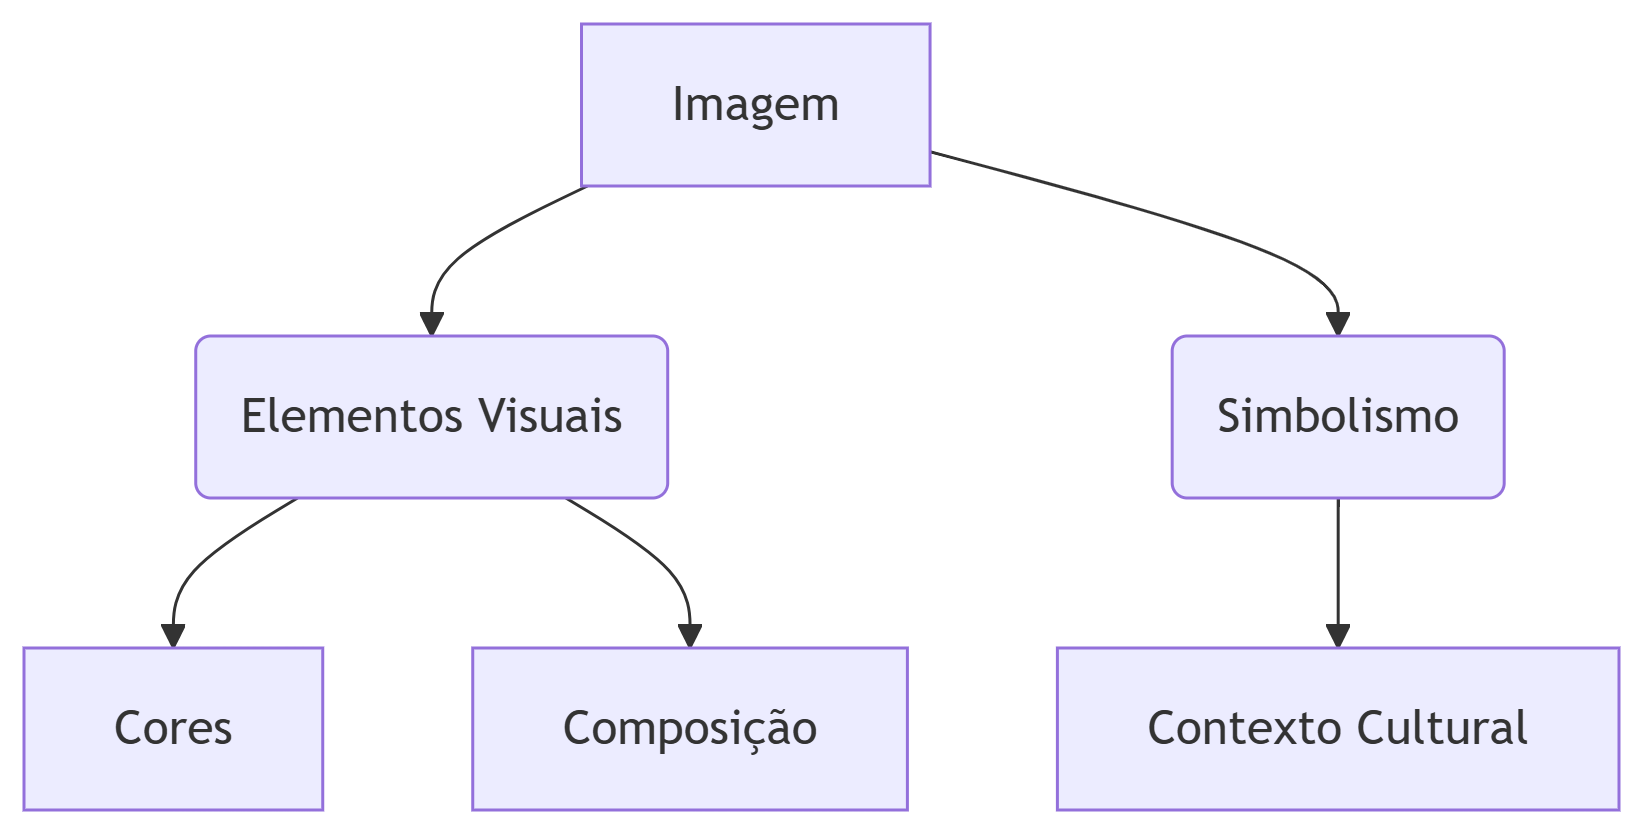
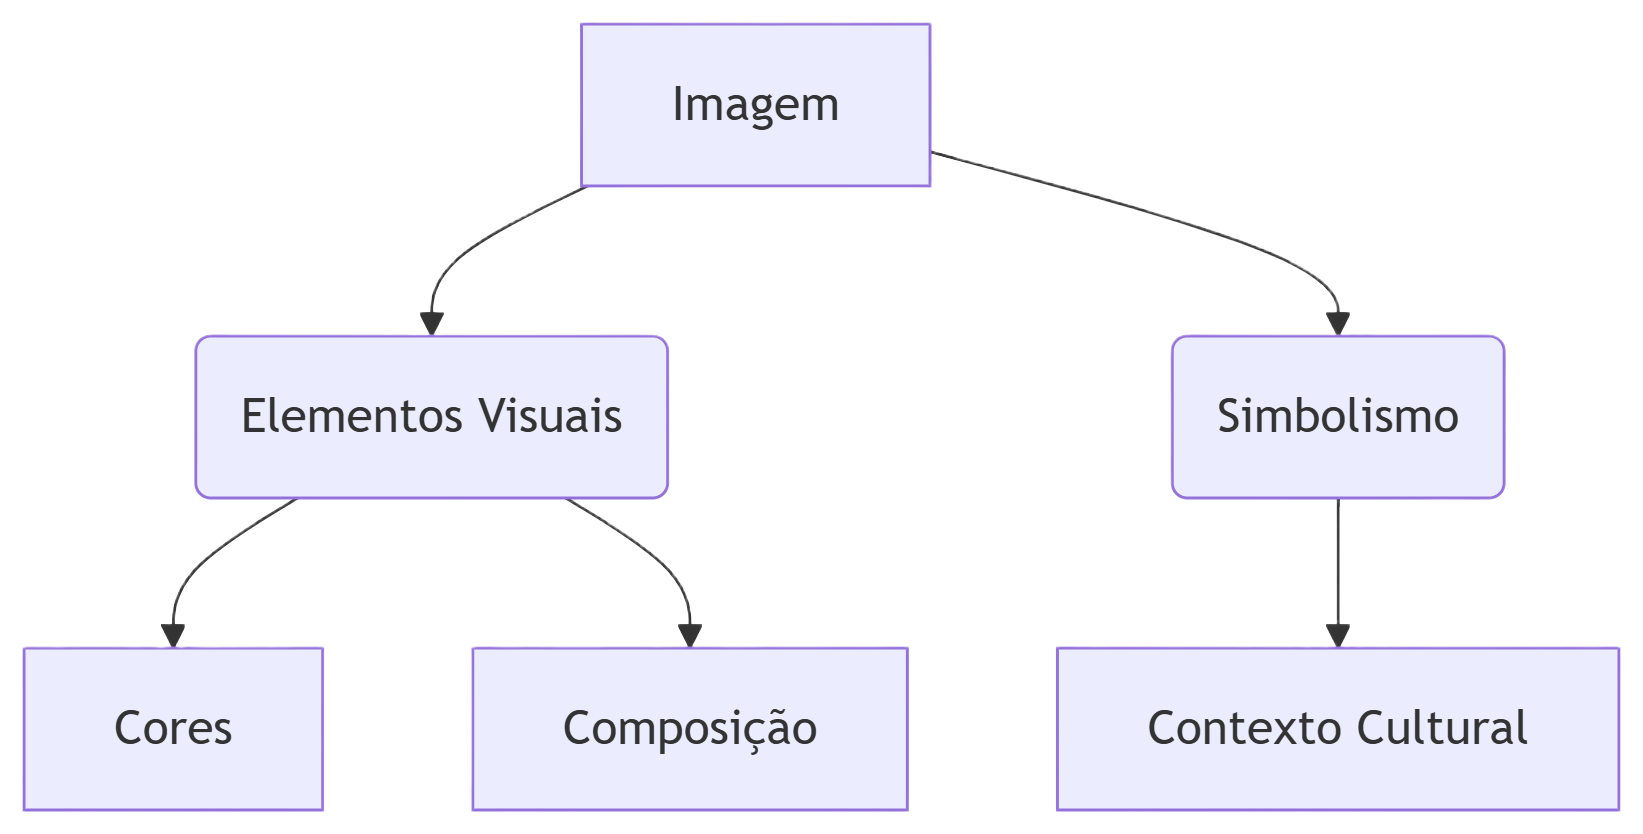
Caderno Magico 6.3

diff --git a/CadernoMagico/Português/bloco/02.html b/CadernoMagico/Português/bloco/02.html
@@ -9,7 +9,7 @@
 <body>
 
     <header class="capa">
-        <h1 class="cabeçalho"></h1>
+        <h1 class="cabeçalho">Interpretação e Análise de Texto</h1>
     </header>
 
     <nav>
@@ -19,7 +19,344 @@
 
 
     <main>
+        <section>
+        <p id="marcabloco">Bloco 02</p>
+        <h2>Interpretação de Textos</h2>
+    </section>
+
+    <article>
+        <h3>Verbais e Não-Verbais</h3>
         
+        <h4 class="s1">Leitura Ativa e Compreensão Global</h4>
+        <ul>
+            <li><strong class="t1">Skimming:</strong>
+            <ul class="sublist">
+                <li><strong class="t2">Como Fazer:</strong> Leitura rápida para ideia geral</li>
+                <li><strong class="t2">Exemplo Prático:</strong> Identificar tema central em 1 minuto</li>
+                <li><strong class="t2">Benefício:</strong> Economia de tempo</li>
+            </ul></li>
+            
+            <li><strong class="t1">Scanning:</strong>
+            <ul class="sublist">
+                <li><strong class="t2">Como Fazer:</strong> Busca por informações específicas</li>
+                <li><strong class="t2">Exemplo Prático:</strong> Localizar datas em texto histórico</li>
+                <li><strong class="t2">Benefício:</strong> Precisão</li>
+            </ul></li>
+            
+            <li><strong class="t1">Anotação Marginal:</strong>
+            <ul class="sublist">
+                <li><strong class="t2">Como Fazer:</strong> Comentários ao lado do texto</li>
+                <li><strong class="t2">Exemplo Prático:</strong> Sublinhar + "Isso mostra que..."</li>
+                <li><strong class="t2">Benefício:</strong> 75% mais retenção</li>
+            </ul></li>
+            
+            <li><strong class="t1">Dado:</strong> 
+            <strong class="t3">Leitores ativos têm 60% melhor desempenho em provas</strong></li>
+        </ul>
+    </article>
+
+    <article>
+        <h4 class="s1">Análise de Textos Não-Verbais</h4>
+        <ul>
+            <li><strong class="t1">Exemplo Charge:</strong>
+
+              <section class="imagem">
+                <!--bloco de imagem-->
+              </section>
+              <ul class="sublist">
+                <li><strong class="t2">Personagem:</strong> político com nariz de Pinóquio</li>
+                <li><strong class="t2">Símbolo:</strong> mentiras crescentes</li>
+                <li><strong class="t2">Crítica:</strong> falta de honestidade</li>
+            </ul></li>
+        </ul>
+    </article>
+
+    <article>
+        <h4 class="s1">Ironia e Intencionalidade</h4>
+        <ul>
+            <li><strong class="t1">Ironia:</strong>
+            <ul class="sublist">
+                <li><strong class="t2">Definição:</strong> Dizer o oposto do que pensa</li>
+                <li><strong class="t2">Identificação:</strong> Tom e contexto discordam</li>
+                <li><strong class="t2">Exemplo:</strong> "Que lindo!" em cena caótica</li>
+            </ul></li>
+            
+            <li><strong class="t1">Sarcasmo:</strong>
+            <ul class="sublist">
+                <li><strong class="t2">Definição:</strong> Ironia com intenção de ferir</li>
+                <li><strong class="t2">Identificação:</strong> Linguagem corporal agressiva</li>
+                <li><strong class="t2">Exemplo:</strong> "Parabéns pelo seu zero"</li>
+            </ul></li>
+            
+            <li><strong class="t1">Humor:</strong>
+            <ul class="sublist">
+                <li><strong class="t2">Definição:</strong> Ironia leve para divertir</li>
+                <li><strong class="t2">Identificação:</strong> Situações absurdas</li>
+                <li><strong class="t2">Exemplo:</strong> Tirinhas da Mafalda</li>
+            </ul></li>
+            
+            <li><strong class="t1">Estatística:</strong> 
+            <strong class="t3">82% das charges usam ironia</strong></li>
+        </ul>
+    </article>
+
+    <section>
+        <h2>Figuras de Linguagem e Funções da Linguagem</h2>
+    </section>
+
+    <article>
+        <h4 class="s1">Figuras de Linguagem Essenciais</h4>
+        <ul>
+            <li><strong class="t1">Metáfora:</strong>
+            <ul class="sublist">
+                <li><strong class="t2">Definição:</strong> Comparação implícita</li>
+                <li><strong class="t2">Exemplo:</strong> "Seus olhos são estrelas"</li>
+                <li><strong class="t2">Efeito:</strong> Criatividade</li>
+            </ul></li>
+            
+            <li><strong class="t1">Metonímia:</strong>
+            <ul class="sublist">
+                <li><strong class="t2">Definição:</strong> Parte pelo todo</li>
+                <li><strong class="t2">Exemplo:</strong> "Ler Machado de Assis" (obra pelo autor)</li>
+                <li><strong class="t2">Efeito:</strong> Economia linguística</li>
+            </ul></li>
+            
+            <li><strong class="t1">Hipérbole:</strong>
+            <ul class="sublist">
+                <li><strong class="t2">Definição:</strong> Exagero</li>
+                <li><strong class="t2">Exemplo:</strong> "Estou morrendo de sede"</li>
+                <li><strong class="t2">Efeito:</strong> Ênfase</li>
+            </ul></li>
+            
+            <li><strong class="t1">Eufemismo:</strong>
+            <ul class="sublist">
+                <li><strong class="t2">Definição:</strong> Atenuação</li>
+                <li><strong class="t2">Exemplo:</strong> "Ele partiu" (em vez de morreu)</li>
+                <li><strong class="t2">Efeito:</strong> Sensibilidade</li>
+            </ul></li>
+            
+            <li><strong class="t1">Exercício:</strong> 
+            <strong class="t2">Identificar figuras em letras de música</strong></li>
+        </ul>
+    </article>
+
+    <article>
+        <h4 class="s1">Funções da Linguagem</h4>
+        <ul>
+            <li><strong class="t1">Emotiva:</strong>
+            <ul class="sublist">
+                <li><strong class="t2">Elemento Dominante:</strong> Emissor</li>
+                <li><strong class="t2">Exemplo:</strong> "Estou tão feliz!"</li>
+                <li><strong class="t2">Gênero Típico:</strong> Diário</li>
+            </ul></li>
+            
+            <li><strong class="t1">Referencial:</strong>
+            <ul class="sublist">
+                <li><strong class="t2">Elemento Dominante:</strong> Contexto</li>
+                <li><strong class="t2">Exemplo:</strong> "O Brasil tem 212 milhões"</li>
+                <li><strong class="t2">Gênero Típico:</strong> Notícia</li>
+            </ul></li>
+            
+            <li><strong class="t1">Apelativa:</strong>
+            <ul class="sublist">
+                <li><strong class="t2">Elemento Dominante:</strong> Receptor</li>
+                <li><strong class="t2">Exemplo:</strong> "Compre agora!"</li>
+                <li><strong class="t2">Gênero Típico:</strong> Propaganda</li>
+            </ul></li>
+            
+            <li><strong class="t1">Poética:</strong>
+            <ul class="sublist">
+                <li><strong class="t2">Elemento Dominante:</strong> Mensagem</li>
+                <li><strong class="t2">Exemplo:</strong> "O céu azul azulava"</li>
+                <li><strong class="t2">Gênero Típico:</strong> Poema</li>
+            </ul></li>
+            
+            <li><strong class="t1">Dica:</strong> 
+            <strong class="t2">Análise de anúncios publicitários</strong></li>
+        </ul>
+    </article>
+
+    <section>
+        <h2>Variedades Linguísticas e Norma Padrão</h2>
+    </section>
+
+    <article>
+        <h4 class="s1">Comparativo Linguagem Formal x Informal</h4>
+        <ul>
+            <li><strong class="t1">Vocabulário:</strong>
+            <ul class="sublist">
+                <li><strong class="t2">Formal:</strong> "Utilizar"</li>
+                <li><strong class="t2">Informal:</strong> "Usar"</li>
+                <li><strong class="t2">Contexto Adequado:</strong> Trabalho x amigos</li>
+            </ul></li>
+            
+            <li><strong class="t1">Sintaxe:</strong>
+            <ul class="sublist">
+                <li><strong class="t2">Formal:</strong> "A quem..."</li>
+                <li><strong class="t2">Informal:</strong> "Quem que..."</li>
+                <li><strong class="t2">Contexto Adequado:</strong> Redação x WhatsApp</li>
+            </ul></li>
+            
+            <li><strong class="t1">Contrações:</strong>
+            <ul class="sublist">
+                <li><strong class="t2">Formal:</strong> "Estou indo"</li>
+                <li><strong class="t2">Informal:</strong> "Tô indo"</li>
+                <li><strong class="t2">Contexto Adequado:</strong> E-mail profissional x SMS</li>
+            </ul></li>
+            
+            <li><strong class="t1">Dado:</strong> 
+            <strong class="t3">78% dos brasileiros adaptam fala ao contexto</strong></li>
+        </ul>
+    </article>
+
+    <article>
+        <h4 class="s1">Variedades Regionais</h4>
+        <ul>
+            <li><strong class="t1">Nordeste:</strong>
+            <ul class="sublist">
+                <li><strong class="t2">Expressão:</strong> "Oxente"</li>
+                <li><strong class="t2">Equivalente:</strong> "Ué"</li>
+                <li><strong class="t2">Origem:</strong> Influência indígena</li>
+            </ul></li>
+            
+            <li><strong class="t1">Sul:</strong>
+            <ul class="sublist">
+                <li><strong class="t2">Expressão:</strong> "Bah"</li>
+                <li><strong class="t2">Equivalente:</strong> "Nossa"</li>
+                <li><strong class="t2">Origem:</strong> Influência gaúcha</li>
+            </ul></li>
+            
+            <li><strong class="t1">Sudeste:</strong>
+            <ul class="sublist">
+                <li><strong class="t2">Expressão:</strong> "Mermão"</li>
+                <li><strong class="t2">Equivalente:</strong> "Cara"</li>
+                <li><strong class="t2">Origem:</strong> Cultura urbana</li>
+            </ul></li>
+            
+            <li><strong class="t1">Cuidado:</strong> 
+            <strong class="t3">62% dos casos de preconceito linguístico ocorrem em escolas</strong></li>
+        </ul>
+    </article>
+
+    <article>
+        <h4 class="s1">Diferenças Fala x Escrita</h4>
+        <ul>
+            <li><strong class="t1">Estrutura:</strong>
+            <ul class="sublist">
+                <li><strong class="t2">Fala:</strong> Fragmentada</li>
+                <li><strong class="t2">Escrita:</strong> Organizada</li>
+                <li><strong class="t2">Adaptação Necessária:</strong> Revisão textual</li>
+            </ul></li>
+            
+            <li><strong class="t1">Recursos:</strong>
+            <ul class="sublist">
+                <li><strong class="t2">Fala:</strong> Gestos</li>
+                <li><strong class="t2">Escrita:</strong> Pontuação</li>
+                <li><strong class="t2">Adaptação Necessária:</strong> Uso de vírgulas expressivas</li>
+            </ul></li>
+            
+            <li><strong class="t1">Registro:</strong>
+            <ul class="sublist">
+                <li><strong class="t2">Fala:</strong> Espontâneo</li>
+                <li><strong class="t2">Escrita:</strong> Revisado</li>
+                <li><strong class="t2">Adaptação Necessária:</strong> Eliminar repetições</li>
+            </ul></li>
+            
+            <li><strong class="t1">Exemplo:</strong> 
+            <strong class="t2">Transcrição de entrevista requer edição</strong></li>
+        </ul>
+    </article>
+
+    <section>
+        <h2>Coesão, Progressão Textual e Resumo</h2>
+    </section>
+
+    <article>
+        <h4 class="s1">Conectivos Essenciais</h4>
+        <ul>
+            <li><strong class="t1">Adição:</strong>
+            <ul class="sublist">
+                <li><strong class="t2">Exemplos:</strong> além disso, também</li>
+                <li><strong class="t2">Efeito:</strong> Ampliar ideias</li>
+            </ul></li>
+            
+            <li><strong class="t1">Contraste:</strong>
+            <ul class="sublist">
+                <li><strong class="t2">Exemplos:</strong> porém, entretanto</li>
+                <li><strong class="t2">Efeito:</strong> Apresentar oposição</li>
+            </ul></li>
+            
+            <li><strong class="t1">Causa:</strong>
+            <ul class="sublist">
+                <li><strong class="t2">Exemplos:</strong> porque, pois</li>
+                <li><strong class="t2">Efeito:</strong> Explicar motivos</li>
+            </ul></li>
+            
+            <li><strong class="t1">Conclusão:</strong>
+            <ul class="sublist">
+                <li><strong class="t2">Exemplos:</strong> portanto, assim</li>
+                <li><strong class="t2">Efeito:</strong> Finalizar raciocínio</li>
+            </ul></li>
+            
+            <li><strong class="t1">Erro comum:</strong> 
+            <strong class="t3">Excesso de "e" (28% dos textos iniciantes)</strong></li>
+        </ul>
+    </article>
+
+    <article>
+        <h4 class="s1">Paragrafação Lógica</h4>
+        <ul>
+            <li><strong class="t1">Tópico frasal:</strong> 
+            <strong class="t2">Ideia principal (geralmente 1ª frase)</strong></li>
+            
+            <li><strong class="t1">Desenvolvimento:</strong> 
+            <strong class="t2">3-5 frases de apoio</strong></li>
+            
+            <li><strong class="t1">Conclusão:</strong> 
+            <strong class="t2">Fechamento ou transição</strong></li>
+            
+            <li><strong class="t1">Modelo IDE:</strong>
+            <ul class="sublist">
+                <li>Introduzir</li>
+                <li>Desenvolver</li>
+                <li>Exemplificar</li>
+            </ul></li>
+        </ul>
+    </article>
+
+    <article>
+        <h4 class="s1">Técnicas de Resumo</h4>
+        <ul>
+            <li><strong class="t1">Resumo:</strong>
+            <ul class="sublist">
+                <li><strong class="t2">Como Fazer:</strong> Ideias principais</li>
+                <li><strong class="t2">Extensão:</strong> 25% original</li>
+                <li><strong class="t2">Uso:</strong> Estudo</li>
+            </ul></li>
+            
+            <li><strong class="t1">Síntese:</strong>
+            <ul class="sublist">
+                <li><strong class="t2">Como Fazer:</strong> Reorganização criativa</li>
+                <li><strong class="t2">Extensão:</strong> 15% original</li>
+                <li><strong class="t2">Uso:</strong> Apresentação</li>
+            </ul></li>
+            
+            <li><strong class="t1">Esquema:</strong>
+            <ul class="sublist">
+                <li><strong class="t2">Como Fazer:</strong> Tópicos hierárquicos</li>
+                <li><strong class="t2">Extensão:</strong> 10% original</li>
+                <li><strong class="t2">Uso:</strong> Revisão</li>
+            </ul></li>
+            
+            <li><strong class="t1">Passo a passo:</strong>
+            <ul class="sublist">
+                <li>Leitura integral</li>
+                <li>Sublinhar núcleos</li>
+                <li>Reescrever com palavras próprias</li>
+                <li>Verificar se mantém 100% do sentido</li>
+            </ul></li>
+        </ul>
+    </article>
     </main>
           
   <footer>

diff --git a/CadernoMagico/Português/bloco/estilo/estilo2.css b/CadernoMagico/Português/bloco/estilo/estilo2.css
@@ -180,6 +180,8 @@ a.navegador {
     transition: all 0.3s ease;
 }
 
+
+
 /* ============================================ 
    # CONTEÚDO PRINCIPAL
    ============================================ */
@@ -191,6 +193,18 @@ section {
     margin: 30px;
     padding: 20px 30px;
     text-align: center;
+}
+
+section.imagem {
+    width: 60vw;
+    height: 700px;
+    background-color: transparent;
+    background-image: url(imagens/bloco2/exemplo.png);
+    background-size: 60vw;
+    background-repeat: no-repeat;
+    background-position: top center;
+    margin: 0 auto; /* para centralizar */
+    margin-top: 20px;
 }
 
 /* Bloco de Identificação */
